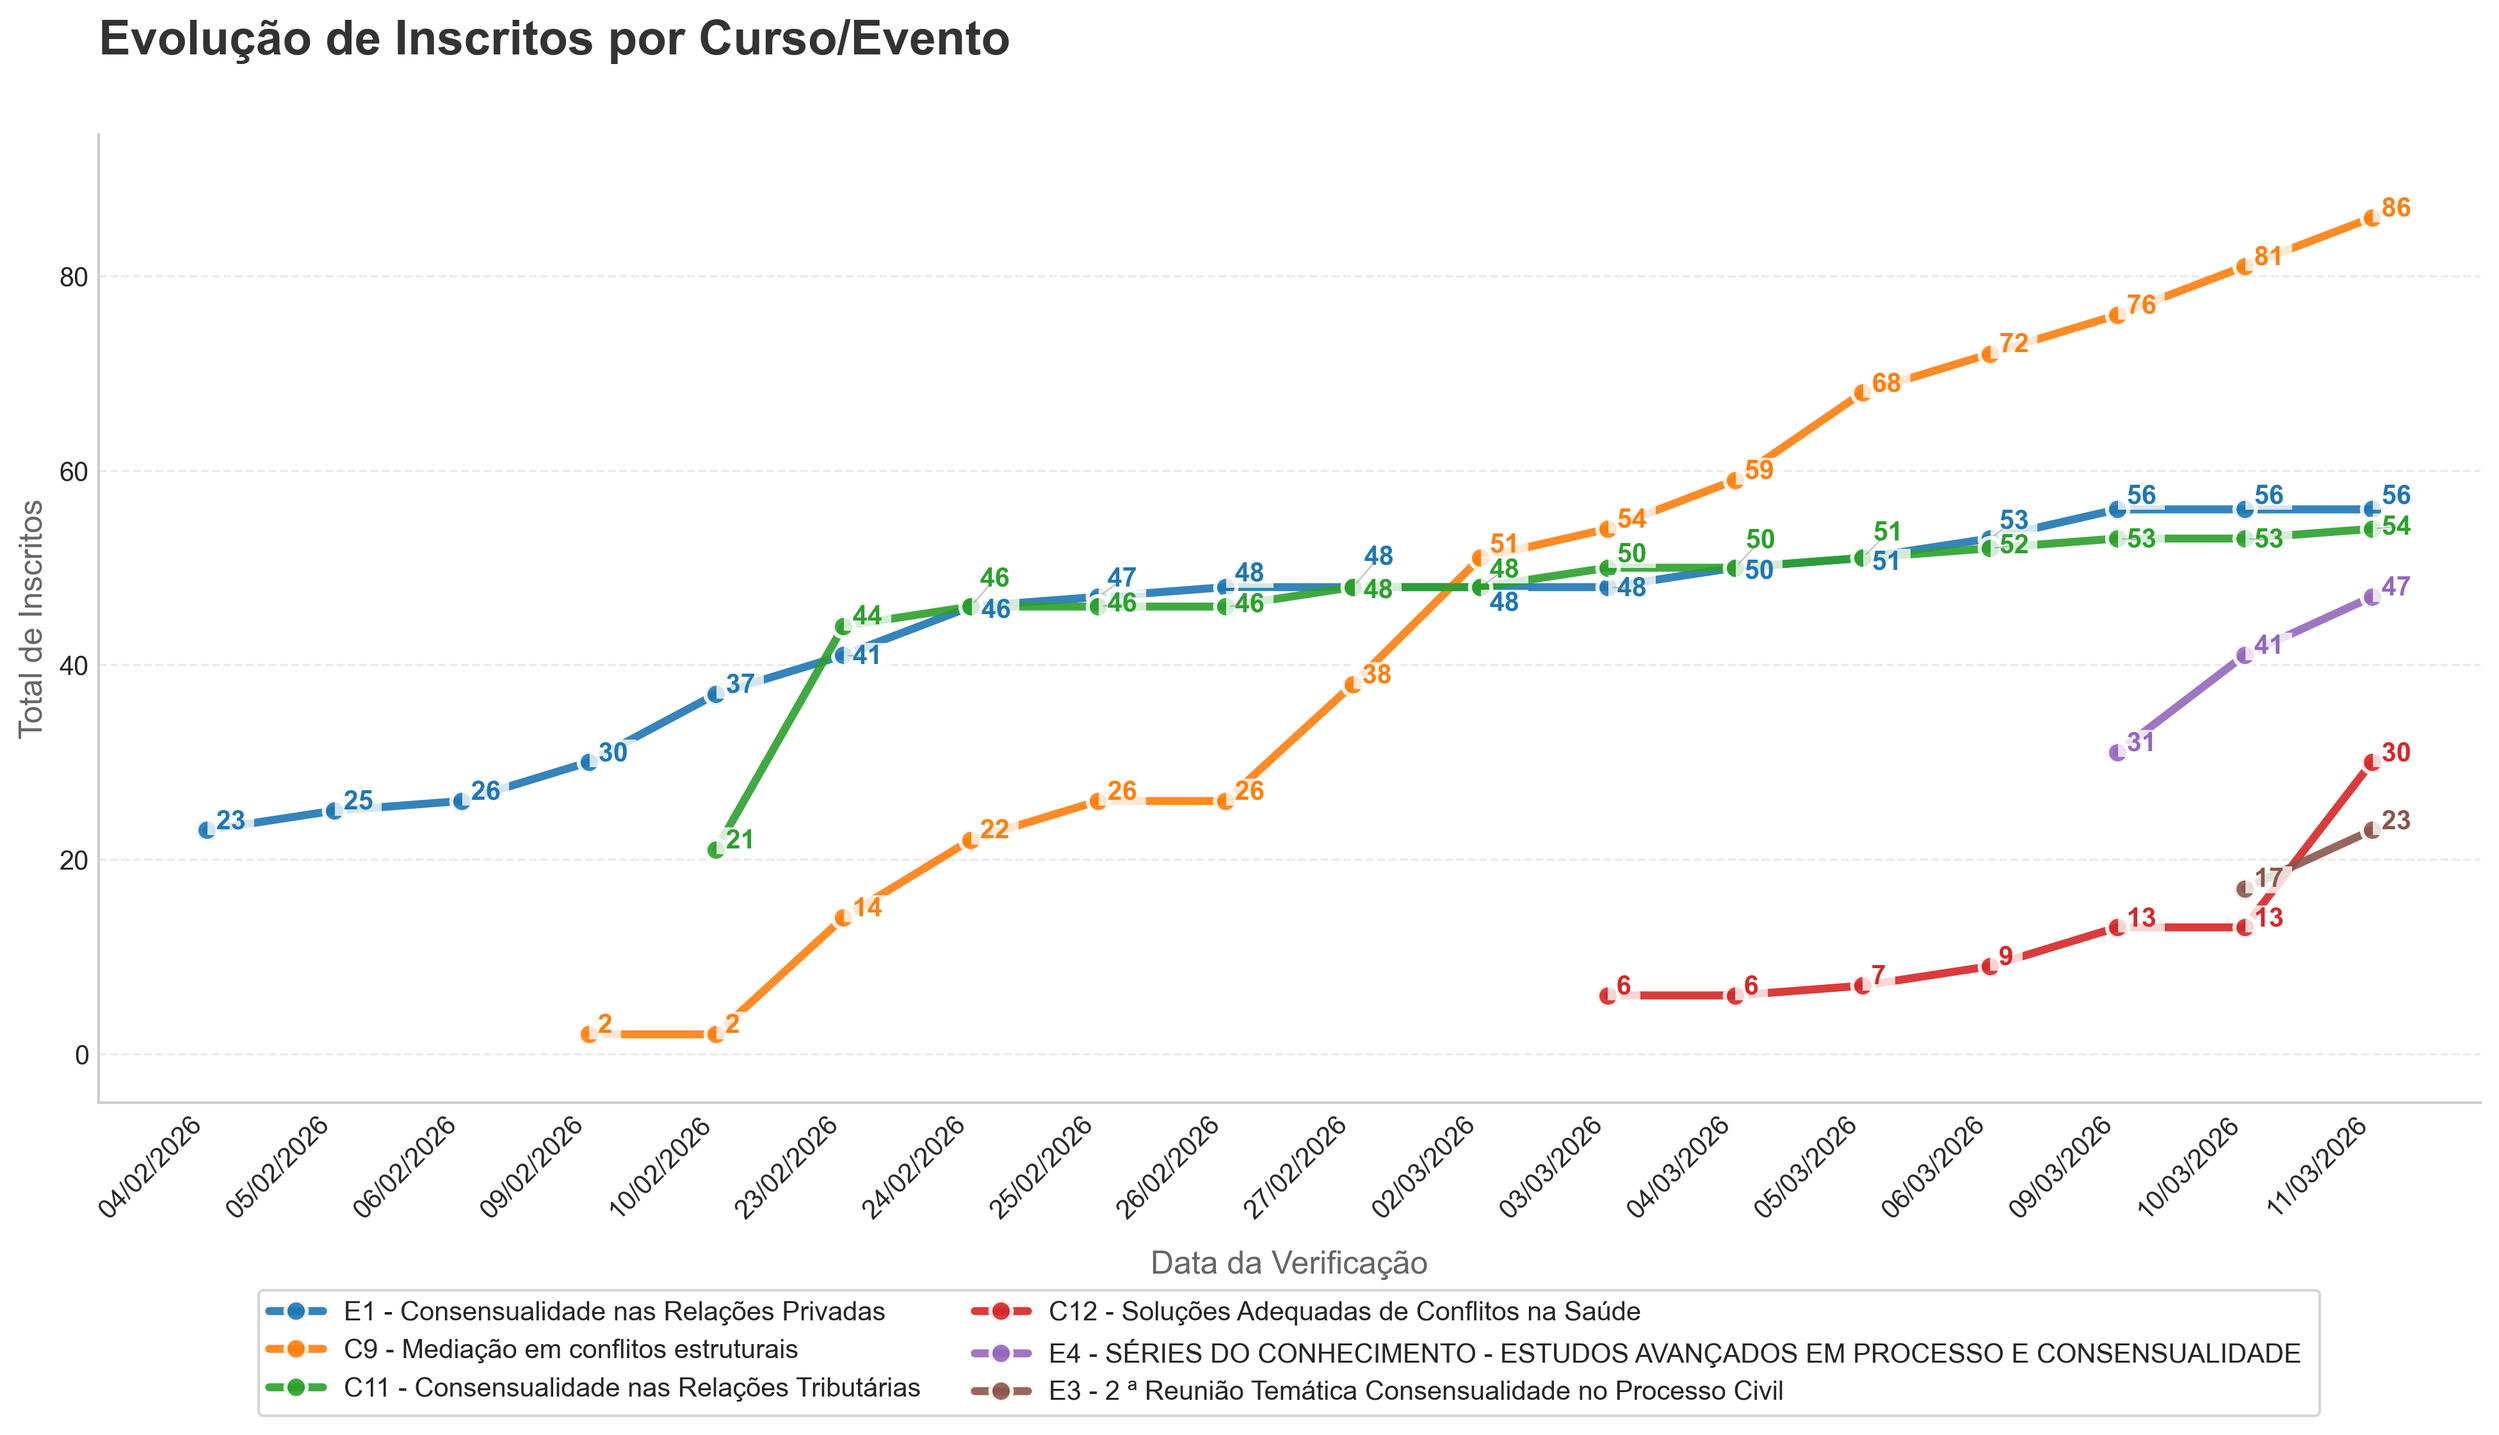
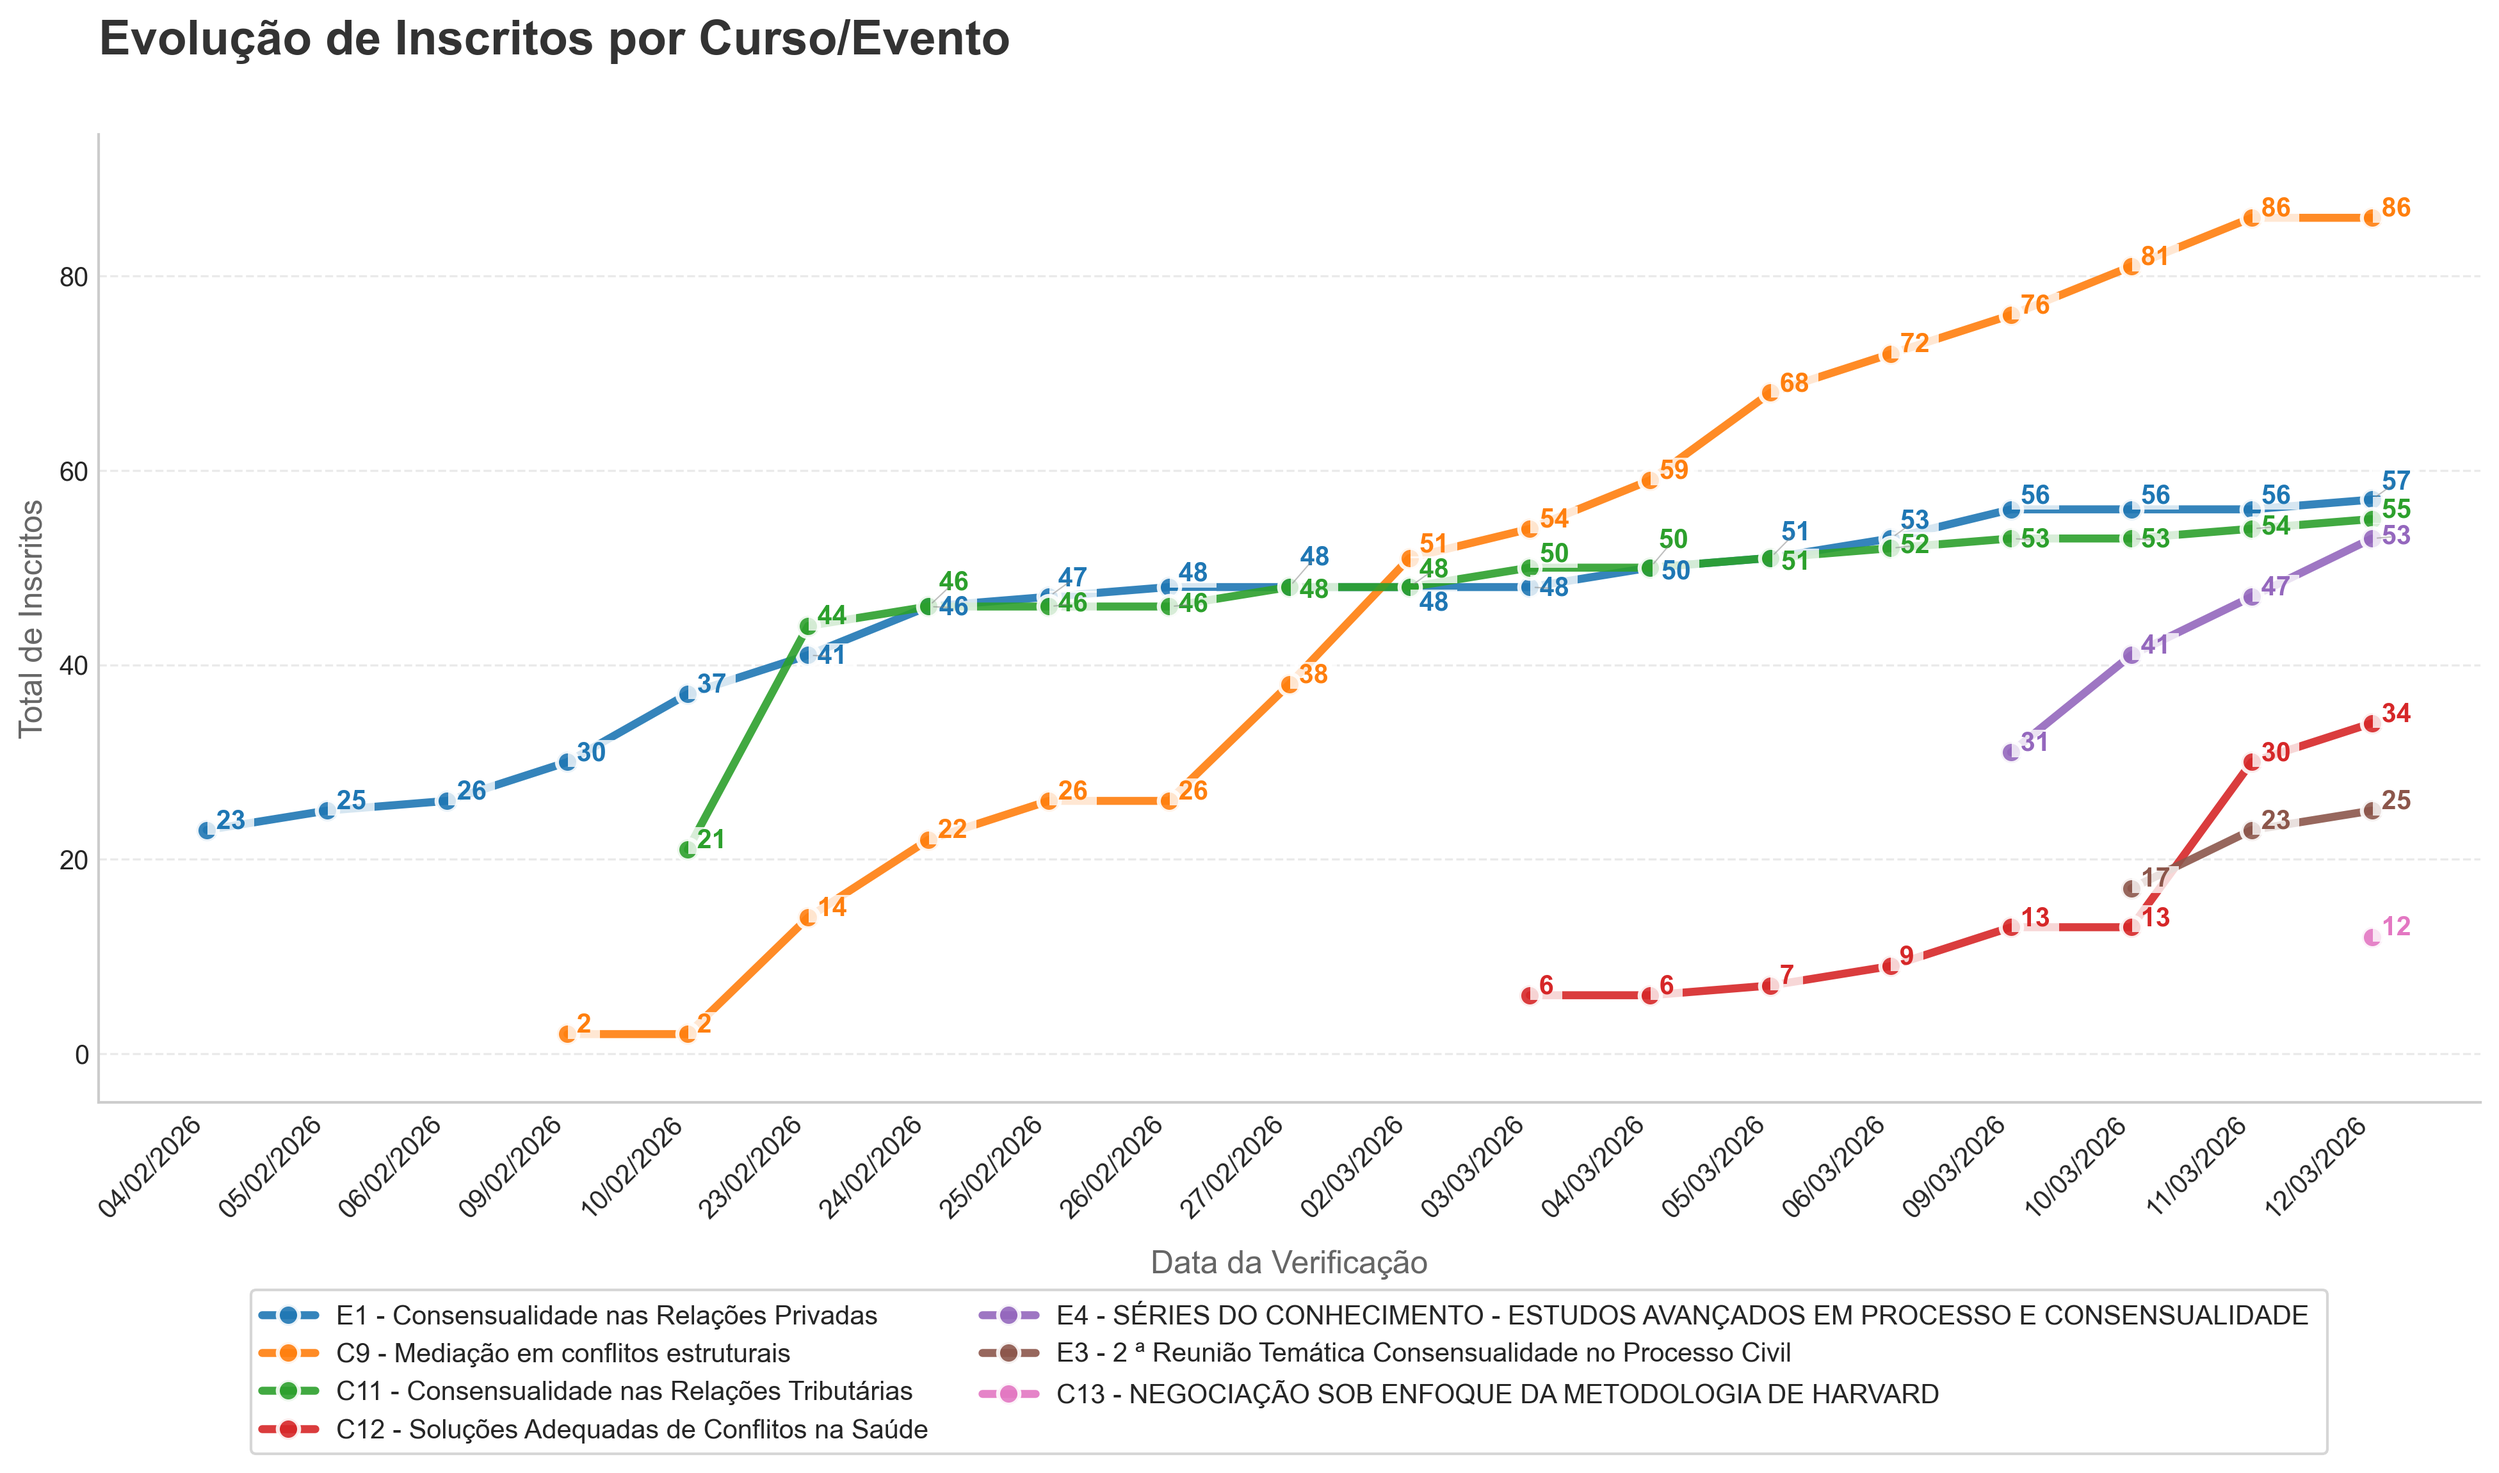
Atualizando

diff --git a/scripts/analise_inscricoes.py b/scripts/analise_inscricoes.py
@@ -25,7 +25,7 @@ df_dados['data'] = pd.to_datetime(df_dados['data'])
 df_final = pd.merge(df_dados, df_referencia, on='id', how='left')
 
 # Filtro dos itens desejados
-ids_para_grafico = ['E1', 'C9', 'C11', 'C12', 'E4', 'E3'] 
+ids_para_grafico = ['E1', 'C9', 'C11', 'C12', 'E4', 'E3', 'C13'] 
 df_filtrado = df_final[df_final['id'].isin(ids_para_grafico)].sort_values('data')
 df_filtrado['data_str'] = df_filtrado['data'].dt.strftime('%d/%m/%Y')
 
